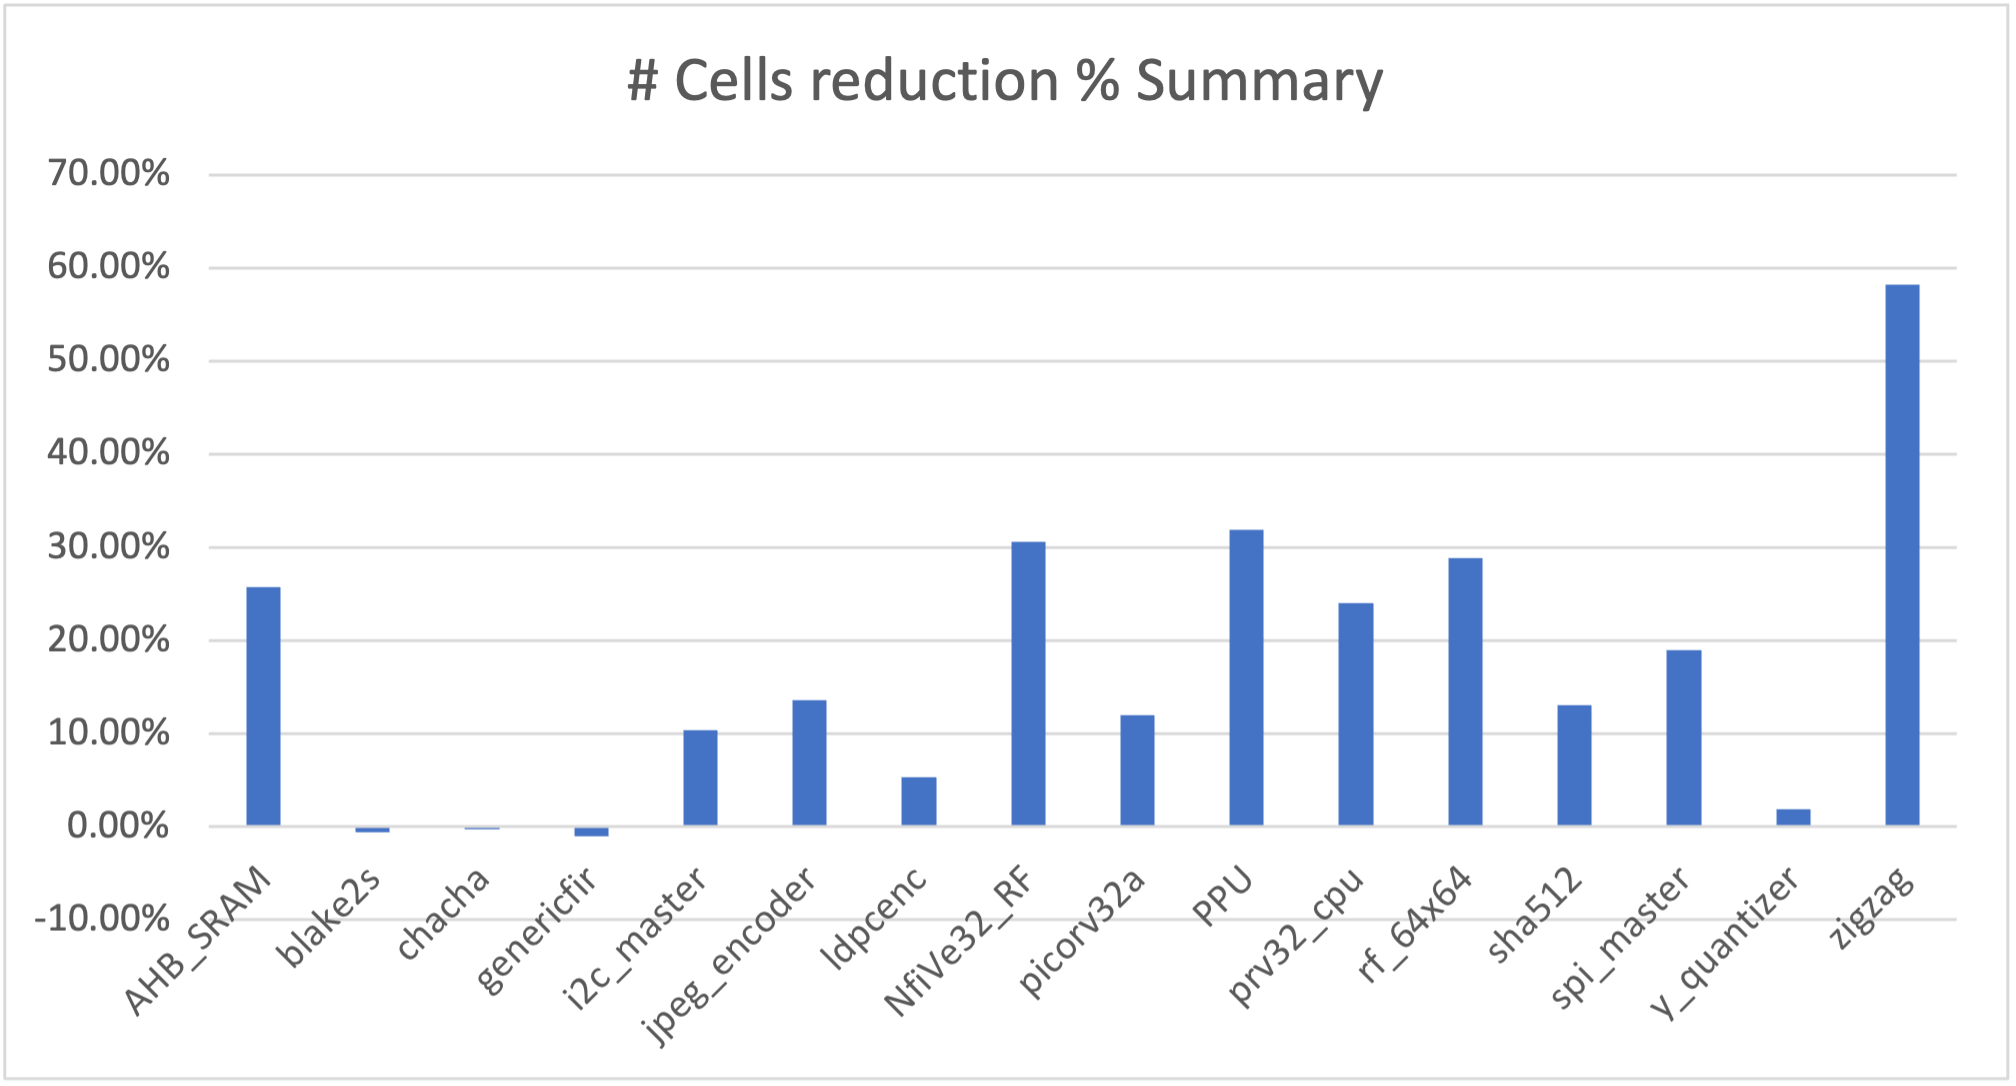
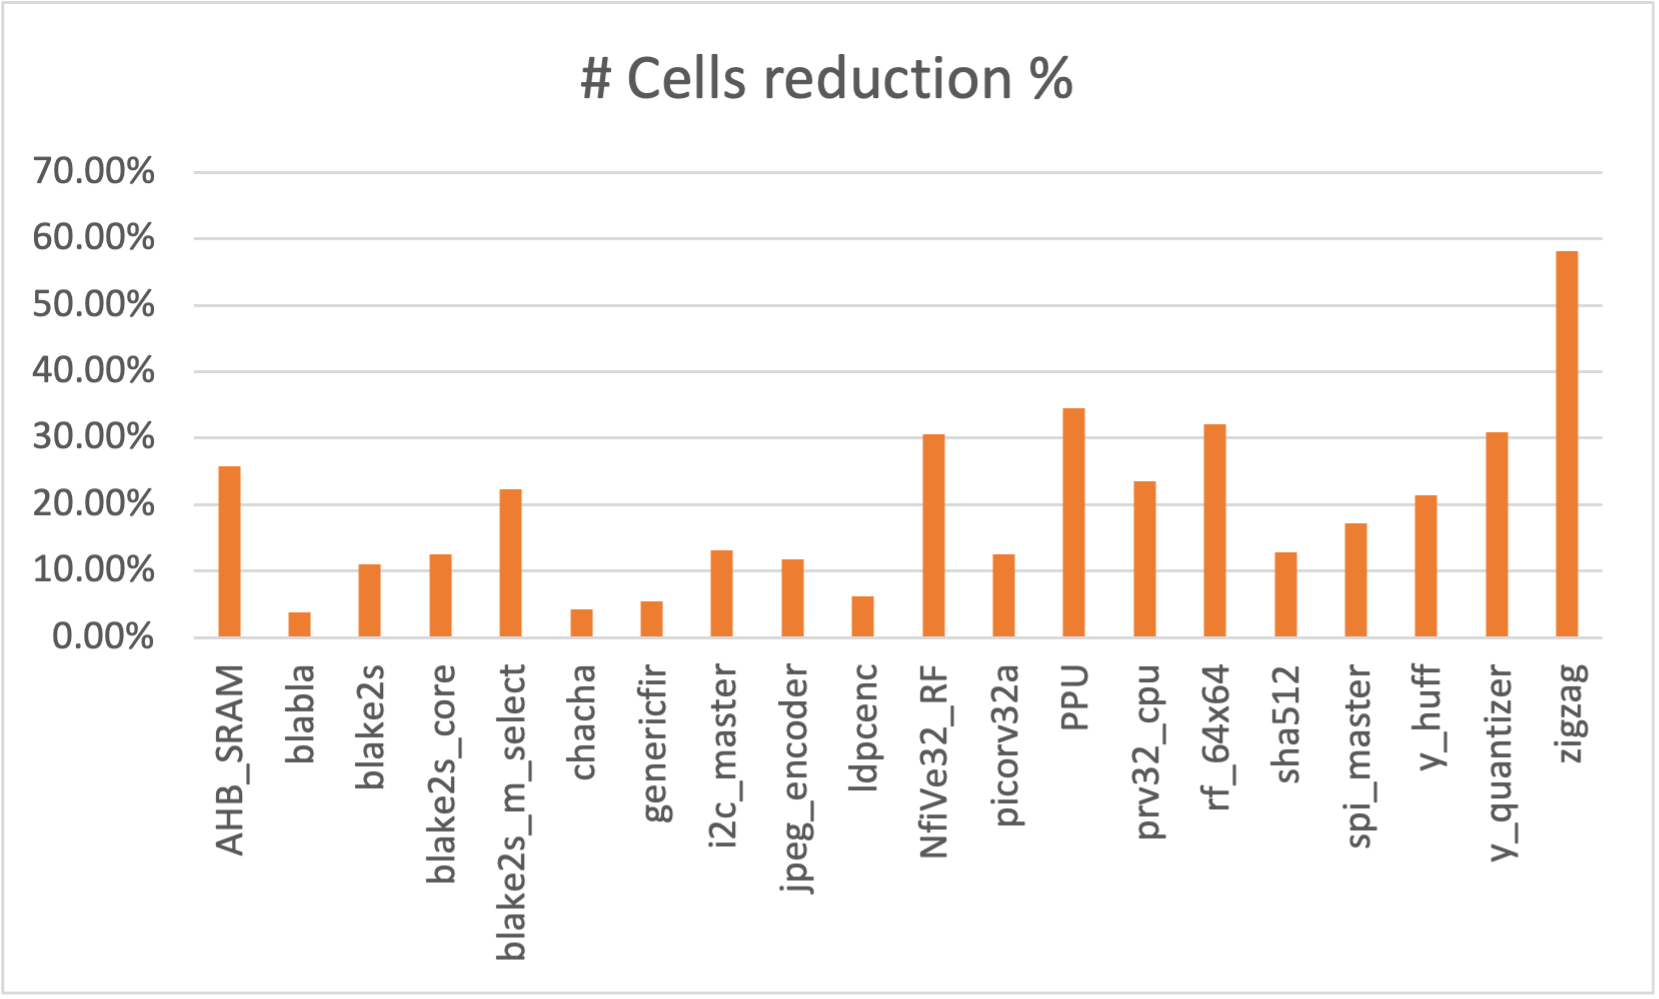
updated reports

diff --git a/report_power/report_power.py b/report_power/report_power.py
@@ -40,7 +40,7 @@ designs = [
     # ["riscv_top_151",       "clk",         "50.0"],
     ["sha512", "clk", "40.0"],
     ["spi_master", "clk", "20.0"],
-    ["y_dct", "clk", "20.0"],
+    #["y_dct", "clk", "20.0"],
     ["y_huff", "clk", "14.0"],
     ["y_quantizer", "clk", "1.0"],
     ["zigzag", "clk", "0.8"],

diff --git a/docs/benchmarks.md b/docs/benchmarks.md
@@ -67,41 +67,43 @@ These results reveal a limitation of the OpenSTA tool, as it does not consider t
 
 The benchmarking results presented below demonstrate the remarkable energy savings and enhanced power efficiency achieved through the implementation of this optimization technique. These findings highlight the crucial role of incorporating automatic clock gating, such Lighter, within building HW designs. By leveraging Lighter, substantial power reductions can be realized, enabling designers to effectively meet power-related design constraints and elevate overall efficiency levels.
 
-| Design       | \# Cells before | \# Cells after | \# Clock Gates | \# Flipflops | \# Clock-gated Flipflops | Total power before (W) | Total power after (W) | Total power difference (W) | Power reduction % | \# Cells reduction % |
-| ------------ | --------------- | -------------- | -------------- | ------------ | ------------------------ | ---------------------- | --------------------- | -------------------------- | ----------------- | -------------------- |
-| AHB_SRAM     | 245             | 182            | 7              | 182          | 47                       | 3.90E-04               | 3.22E-04              | 6.74E-05                   | 17.29%            | 25.71%               |
-| blake2s      | 14225           | 14302          | 16             | 14302        | 512                      | 8.94E-03               | 8.46E-03              | 4.83E-04                   | 5.40%             | \-0.54%              |
-| chacha       | 12857           | 12892          | 26             | 12892        | 832                      | 6.92E-03               | 6.03E-03              | 8.90E-04                   | 12.87%            | \-0.27%              |
-| genericfir   | 143703          | 145111         | 128            | 145111       | 1536                     | 8.43E-02               | 7.79E-02              | 6.38E-03                   | 7.57%             | \-0.98%              |
-| i2c_master   | 759             | 680            | 21             | 680          | 106                      | 5.79E-04               | 5.04E-04              | 7.51E-05                   | 12.97%            | 10.41%               |
-| jpeg_encoder | 63757           | 55113          | 388            | 55113        | 4637                     | 3.41E-02               | 2.36E-02              | 1.05E-02                   | 30.85%            | 13.56%               |
-| ldpcenc      | 19947           | 18880          | 28             | 18880        | 1273                     | 1.90E-02               | 1.56E-02              | 3.35E-03                   | 17.66%            | 5.35%                |
-| NfiVe32_RF   | 3362            | 2334           | 32             | 2334         | 1024                     | 7.84E-03               | 5.45E-03              | 2.39E-03                   | 30.46%            | 30.58%               |
-| picorv32a    | 14348           | 12624          | 85             | 12624        | 1011                     | 6.45E-03               | 5.01E-03              | 1.44E-03                   | 22.38%            | 12.02%               |
-| PPU          | 10156           | 6921           | 405            | 6921         | 2824                     | 6.26E-02               | 5.03E-02              | 1.23E-02                   | 19.61%            | 31.85%               |
-| prv32_cpu    | 2186            | 1662           | 10             | 1662         | 207                      | 1.03E-03               | 7.34E-04              | 2.95E-04                   | 28.63%            | 23.97%               |
-| rf_64x64     | 13461           | 9572           | 64             | 9572         | 4096                     | 3.14E-02               | 2.14E-02              | 1.01E-02                   | 32.02%            | 28.89%               |
-| sha512       | 20240           | 17592          | 74             | 17592        | 3669                     | 7.70E-03               | 5.37E-03              | 2.33E-03                   | 30.24%            | 13.08%               |
-| spi_master   | 179             | 145            | 8              | 145          | 43                       | 1.92E-04               | 1.76E-04              | 1.62E-05                   | 8.45%             | 18.99%               |
-| y_quantizer  | 8281            | 8122           | 16             | 8122         | 176                      | 2.27E-01               | 2.25E-01              | 2.41E-03                   | 1.06%             | 1.92%                |
-| zigzag       | 3807            | 1591           | 65             | 1591         | 769                      | 8.14E-02               | 5.54E-02              | 2.60E-02                   | 31.95%            | 58.21%               |
-
+|Design          |# Cells before|# Cells after|# Clock Gates|# Flipflops|# Clock-gated Flipflops|Total power before (W)|Total power after (W)|Total power difference (W)|Power reduction %|# Cells reduction %|
+|----------------|--------------|-------------|-------------|-----------|-----------------------|----------------------|---------------------|--------------------------|-----------------|-------------------|
+|AHB_SRAM        |245           |182          |7            |182        |47                     |3.90E-04              |3.22E-04             |6.74E-05                  |17.29%           |25.71%             |
+|blabla          |10589         |10195        |24           |10195      |1098                   |1.57E-03              |1.12E-03             |4.52E-04                  |28.80%           |3.72%              |
+|blake2s         |14207         |12637        |63           |12637      |1872                   |8.96E-03              |5.94E-03             |3.02E-03                  |33.70%           |11.05%             |
+|blake2s_core    |12971         |11346        |46           |11346      |1353                   |7.09E-03              |4.53E-03             |2.56E-03                  |36.05%           |12.53%             |
+|blake2s_m_select|4518          |3511         |16           |3511       |512                    |2.65E-03              |1.51E-03             |1.14E-03                  |43.00%           |22.29%             |
+|chacha          |12857         |12307        |52           |12307      |1936                   |6.92E-03              |4.74E-03             |2.18E-03                  |31.49%           |4.28%              |
+|genericfir      |143575        |135662       |638          |135662     |11624                  |8.42E-02              |5.67E-02             |2.75E-02                  |32.62%           |5.51%              |
+|i2c_master      |758           |658          |21           |658        |106                    |5.79E-04              |5.02E-04             |7.70E-05                  |13.29%           |13.19%             |
+|jpeg_encoder    |62472         |55114        |388          |55114      |4637                   |3.38E-02              |2.36E-02             |1.02E-02                  |30.23%           |11.78%             |
+|ldpcenc         |20134         |18898        |28           |18898      |1273                   |1.91E-02              |1.56E-02             |3.44E-03                  |18.04%           |6.14%              |
+|NfiVe32_RF      |3362          |2334         |32           |2334       |1024                   |7.84E-03              |5.45E-03             |2.39E-03                  |30.46%           |30.58%             |
+|picorv32a       |14271         |12490        |128          |12490      |1244                   |6.42E-03              |4.79E-03             |1.63E-03                  |25.42%           |12.48%             |
+|PPU             |10248         |6719         |410          |6719       |2845                   |6.25E-02              |5.01E-02             |1.23E-02                  |19.74%           |34.44%             |
+|prv32_cpu       |2241          |1715         |10           |1715       |207                    |1.03E-03              |7.34E-04             |2.94E-04                  |28.57%           |23.47%             |
+|rf_64x64        |13475         |9153         |64           |9153       |4096                   |3.14E-02              |2.14E-02             |1.01E-02                  |32.01%           |32.07%             |
+|sha512          |20187         |17592        |74           |17592      |3669                   |7.73E-03              |5.37E-03             |2.36E-03                  |30.53%           |12.85%             |
+|spi_master      |175           |145          |8            |145        |43                     |1.93E-04              |1.76E-04             |1.77E-05                  |9.16%            |17.14%             |
+|y_huff          |11004         |8657         |450          |8657       |2345                   |1.37E-02              |1.10E-02             |2.68E-03                  |19.55%           |21.33%             |
+|y_quantizer     |8281          |5726         |256          |5726       |2816                   |2.27E-01              |1.57E-01             |7.04E-02                  |30.96%           |30.85%             |
+|zigzag          |3807          |1591         |65           |1591       |769                    |8.14E-02              |5.54E-02             |2.60E-02                  |31.95%           |58.21%             |
 
 
 ## Further Stats:
 
 | Avarage Power Reduction % | Avarage cell Reduction % |
 | ------------------------- | ------------------------ |
-| 19.34%                    | 17.05%                   |
+| 27.14%                    | 19.48%                   |
 
 | Max Power Reduction % | Min Power Reduction % |
 | --------------------- | --------------------- |
-| 32.02%                | 1.06%                 |
+| 43.00%                | 9.16%                |
 
 | Max cell Reduction % | Min cell Reduction % |
 | -------------------- | -------------------- |
-| 58.21%               | \-0.98%              |
-
+| 58.21%               | 3.72%                |
 
 
 <img src="https://github.com/AUCOHL/Lighter/blob/main/docs/diagrams/power_reduction_summary.png" alt="power_summary" width="750"/>

diff --git a/README.md b/README.md
@@ -155,39 +155,43 @@ A detailed guide can be found [here](https://github.com/kanndil/Lighter/blob/mai
 
 # 🔬 Power reduction analysis
 
-| Design       | \# Cells | \# Added Clock Gates | Power reduction % | \# Cells reduction % |
-| ------------ | -------- | -------------------- | ----------------- | -------------------- |
-| AHB_SRAM     | 245      | 47                   | 17.29%            | 25.71%               |
-| blake2s      | 14225    | 512                  | 5.40%             | \-0.54%              |
-| chacha       | 12857    | 832                  | 12.87%            | \-0.27%              |
-| genericfir   | 143703   | 1536                 | 7.57%             | \-0.98%              |
-| i2c_master   | 759      | 106                  | 12.97%            | 10.41%               |
-| jpeg_encoder | 63757    | 4637                 | 30.85%            | 13.56%               |
-| ldpcenc      | 19947    | 1273                 | 17.66%            | 5.35%                |
-| NfiVe32_RF   | 3362     | 1024                 | 30.46%            | 30.58%               |
-| picorv32a    | 14348    | 1011                 | 22.38%            | 12.02%               |
-| PPU          | 10156    | 2824                 | 19.61%            | 31.85%               |
-| prv32_cpu    | 2186     | 207                  | 28.63%            | 23.97%               |
-| rf_64x64     | 13461    | 4096                 | 32.02%            | 28.89%               |
-| sha512       | 20240    | 3669                 | 30.24%            | 13.08%               |
-| spi_master   | 179      | 43                   | 8.45%             | 18.99%               |
-| y_quantizer  | 8281     | 176                  | 1.06%             | 1.92%                |
-| zigzag       | 3807     | 769                  | 31.95%            | 58.21%               |
+|Design          |# Cells|# Added Clock Gates|Power reduction %|# Cells reduction %|
+|----------------|-------|-------------------|-----------------|-------------------|
+|AHB_SRAM        |245    |47                 |17.29%           |25.71%             |
+|blabla          |10589  |1098               |28.80%           |3.72%              |
+|blake2s         |14207  |1872               |33.70%           |11.05%             |
+|blake2s_core    |12971  |1353               |36.05%           |12.53%             |
+|blake2s_m_select|4518   |512                |43.00%           |22.29%             |
+|chacha          |12857  |1936               |31.49%           |4.28%              |
+|genericfir      |143575 |11624              |32.62%           |5.51%              |
+|i2c_master      |758    |106                |13.29%           |13.19%             |
+|jpeg_encoder    |62472  |4637               |30.23%           |11.78%             |
+|ldpcenc         |20134  |1273               |18.04%           |6.14%              |
+|NfiVe32_RF      |3362   |1024               |30.46%           |30.58%             |
+|picorv32a       |14271  |1244               |25.42%           |12.48%             |
+|PPU             |10248  |2845               |19.74%           |34.44%             |
+|prv32_cpu       |2241   |207                |28.57%           |23.47%             |
+|rf_64x64        |13475  |4096               |32.01%           |32.07%             |
+|sha512          |20187  |3669               |30.53%           |12.85%             |
+|spi_master      |175    |43                 |9.16%            |17.14%             |
+|y_huff          |11004  |2345               |19.55%           |21.33%             |
+|y_quantizer     |8281   |2816               |30.96%           |30.85%             |
+|zigzag          |3807   |769                |31.95%           |58.21%             |
 
 
 ## Further Stats:
 
 | Avarage Power Reduction % | Avarage cell Reduction % |
 | ------------------------- | ------------------------ |
-| 19.34%                    | 17.05%                   |
+| 27.14%                    | 19.48%                   |
 
 | Max Power Reduction % | Min Power Reduction % |
 | --------------------- | --------------------- |
-| 32.02%                | 1.06%                 |
+| 43.00%                | 9.16%                |
 
 | Max cell Reduction % | Min cell Reduction % |
 | -------------------- | -------------------- |
-| 58.21%               | \-0.98%              |
+| 58.21%               | 3.72%                |
 
 
 <img src="https://github.com/AUCOHL/Lighter/blob/main/docs/diagrams/power_reduction_summary.png" alt="power_summary" width="750"/>
